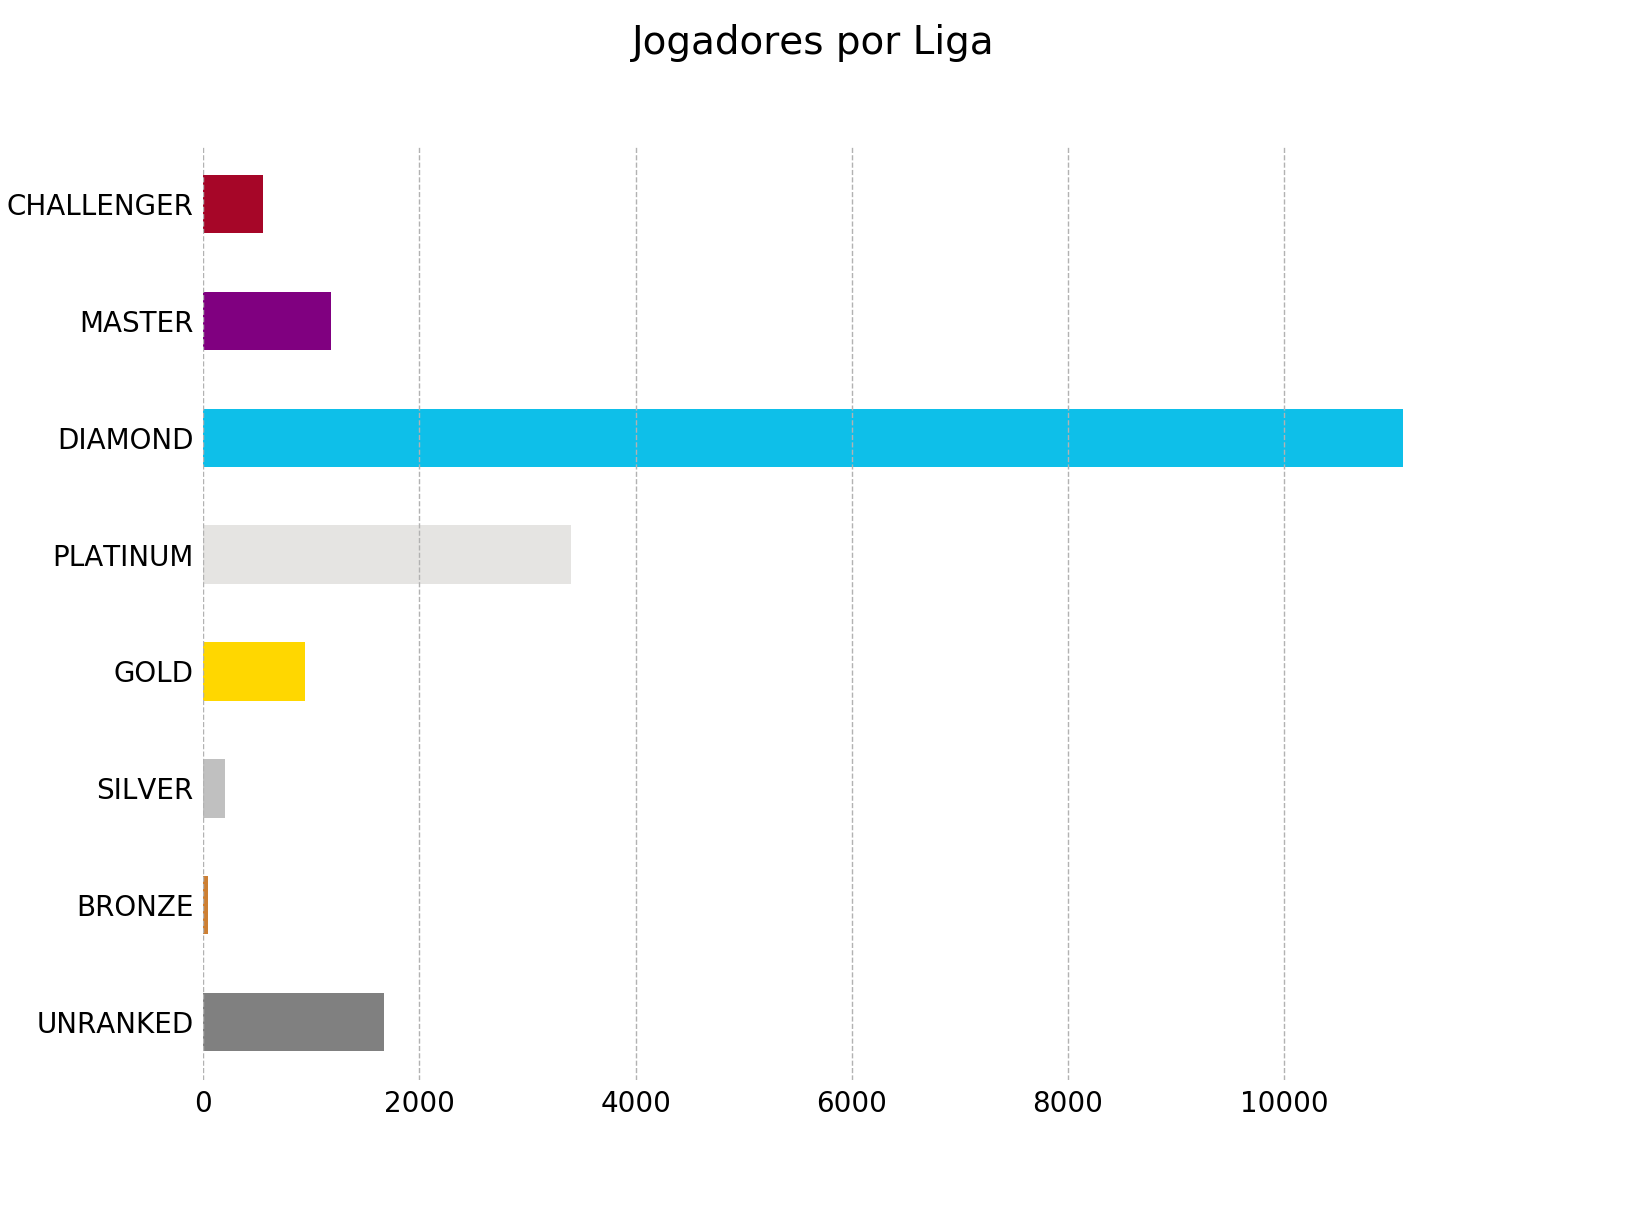
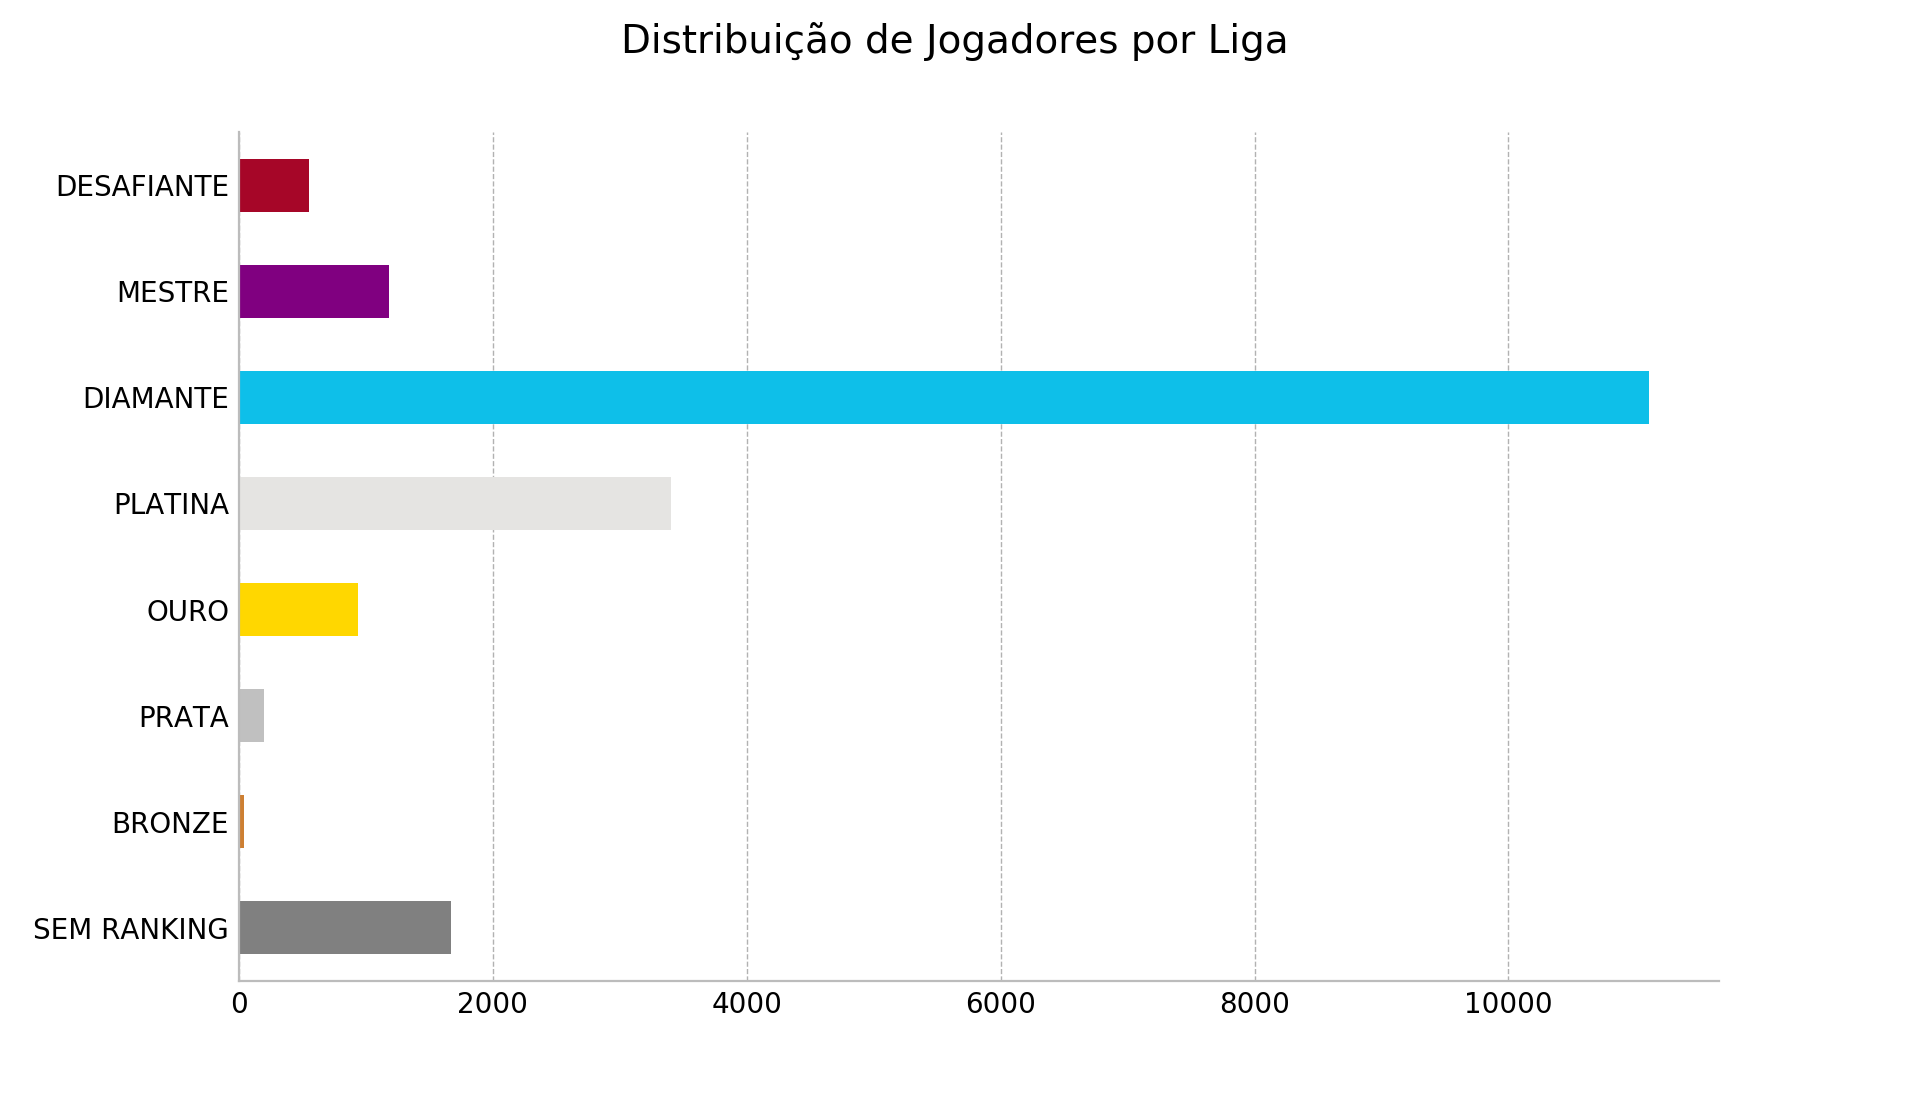
Add feature models that account for history of players
- Those models take a very long time to build and are inviable

diff --git a/extractor.py b/extractor.py
@@ -252,6 +252,136 @@ def champion_masteries_summoner(match, cursor):
     return champion_masteries
 
 
+def summoner_wins_and_rate_team(match, cursor):
+    get_outcomes = ("SELECT T.winner, count(*) "
+                    "FROM MatchParticipant P, MatchPlayer PL, MatchTeam T "
+                    "WHERE PL.summonerId = %s AND P._match_id <> %s "
+                    "AND P._id = PL._participant_id AND P._match_id = T._match_id "
+                    "AND P.teamId = T.teamId "
+                    "GROUP BY T.winner "
+                    "ORDER BY T.winner")
+
+    blue_team = match[:5]
+    red_team = match[5:10]
+
+    blue_total = np.zeros(1)
+    red_total = np.zeros(1)
+    blue_wins = np.zeros(1)
+    red_wins = np.zeros(1)
+    blue_rate = np.zeros(1)
+    red_rate = np.zeros(1)
+
+    for _, player in blue_team.iterrows():
+        losses = 0
+        wins = 0
+        cursor.execute(get_outcomes, (player["summonerId"], player["matchId"]))
+        outcomes = list(cursor)
+        if not outcomes:
+            continue
+        elif len(outcomes) == 2:
+            losses = outcomes[0][1]
+            wins = outcomes[1][1]
+        else:
+            if outcomes[0][0] == 0:
+                losses = outcomes[0][1]
+            else:
+                wins = outcomes[0][1]
+        blue_total += losses + wins
+        blue_wins += wins
+
+    blue_rate = blue_wins / blue_total
+
+    for _, player in red_team.iterrows():
+        losses = 0
+        wins = 0
+        cursor.execute(get_outcomes, (player["summonerId"], player["matchId"]))
+        outcomes = list(cursor)
+        if not outcomes:
+            continue
+        elif len(outcomes) == 2:
+            losses = outcomes[0][1]
+            wins = outcomes[1][1]
+        else:
+            if outcomes[0][0] == 0:
+                losses = outcomes[0][1]
+            else:
+                wins = outcomes[0][1]
+        red_total += losses + wins
+        red_wins += wins
+
+    red_rate = red_wins / red_total
+
+    result = np.concatenate((blue_rate, blue_wins, red_rate, red_wins))
+    return result
+    
+
+def champion_wins_and_rate_team(match, cursor):
+    get_outcomes = ("SELECT T.winner, count(*) "
+                    "FROM MatchParticipant P, MatchPlayer PL, MatchTeam T "
+                    "WHERE PL.summonerId = %s AND P._match_id <> %s "
+                    "AND P.championId = %s "
+                    "AND P._id = PL._participant_id AND P._match_id = T._match_id "
+                    "AND P.teamId = T.teamId "
+                    "GROUP BY T.winner "
+                    "ORDER BY T.winner")
+
+    blue_team = match[:5]
+    red_team = match[5:10]
+
+    blue_total = np.zeros(1)
+    red_total = np.zeros(1)
+    blue_wins = np.zeros(1)
+    red_wins = np.zeros(1)
+    blue_rate = np.zeros(1)
+    red_rate = np.zeros(1)
+
+
+    for _, player in blue_team.iterrows():
+        losses = 0
+        wins = 0
+        cursor.execute(get_outcomes, (player["summonerId"], player["matchId"], 
+                                      player["championId"]))
+        outcomes = list(cursor)
+        if not outcomes:
+            continue
+        elif len(outcomes) == 2:
+            losses = outcomes[0][1]
+            wins = outcomes[1][1]
+        else:
+            if outcomes[0][0] == 0:
+                losses = outcomes[0][1]
+            else:
+                wins = outcomes[0][1]
+        blue_total += losses + wins
+        blue_wins += wins
+
+    blue_rate = blue_wins / blue_total
+
+    for _, player in red_team.iterrows():
+        losses = 0
+        wins = 0
+        cursor.execute(get_outcomes, (player["summonerId"], player["matchId"], 
+                                      player["championId"]))
+        outcomes = list(cursor)
+        if not outcomes:
+            continue
+        elif len(outcomes) == 2:
+            losses = outcomes[0][1]
+            wins = outcomes[1][1]
+        else:
+            if outcomes[0][0] == 0:
+                losses = outcomes[0][1]
+            else:
+                wins = outcomes[0][1]
+        red_total += losses + wins
+        red_wins += wins
+
+    red_rate = red_wins / red_total
+
+    result = np.concatenate((blue_rate, blue_wins, red_rate, red_wins))
+    return result
+
+
 def team_features_zero_to_ten(match, cursor):
     get_features = ("SELECT PL.summonerId, PTD._type, PTD.zeroToTen "
                     "FROM MatchParticipant PA, MatchPlayer PL, "
@@ -730,6 +860,60 @@ def build_model_pre9(db, cursor):
     return dataset
 
 
+def build_model_pre10(db, cursor):
+    df = pd.read_sql("SELECT D.matchId, PL.summonerId, P.championId, P.teamId,"
+                     " T.winner "
+                     "FROM MatchParticipant P, MatchDetail D, MatchTeam T, "
+                     "MatchPlayer PL "
+                     "WHERE P._match_id = D.matchId AND D.mapId = 11 "
+                     "AND D.matchId = T._match_id AND P.teamId = T.teamId "
+                     "AND PL._participant_id = P._id "
+                     "ORDER BY D.matchId, P.teamId ", db)
+
+    dataset = np.zeros((df.shape[0] / 10, 278))
+    bar = tqdm(total=df.shape[0] / 10)
+    for i, player in enumerate(xrange(0, df.shape[0] - 10, 10)):
+        bar.update(1)
+        match = df[player:player + 10]
+
+        champions = onehot_champions(match, db)
+        history = summoner_wins_and_rate_team(match, cursor)
+        history_wins_diff = history[0] - history[2]
+        history_wins_diff = history_wins_diff[np.newaxis]
+        winner = np.array(df["winner"].iloc[player])[np.newaxis]
+        dataset[i] = np.concatenate((champions, history, history_wins_diff, 
+                                     winner))
+
+    return dataset
+
+
+def build_model_pre11(db, cursor):
+    df = pd.read_sql("SELECT D.matchId, PL.summonerId, P.championId, P.teamId,"
+                     " T.winner "
+                     "FROM MatchParticipant P, MatchDetail D, MatchTeam T, "
+                     "MatchPlayer PL "
+                     "WHERE P._match_id = D.matchId AND D.mapId = 11 "
+                     "AND D.matchId = T._match_id AND P.teamId = T.teamId "
+                     "AND PL._participant_id = P._id "
+                     "ORDER BY D.matchId, P.teamId ", db)
+
+    dataset = np.zeros((df.shape[0] / 10, 278))
+    bar = tqdm(total=df.shape[0] / 10)
+    for i, player in enumerate(xrange(0, df.shape[0] - 10, 10)):
+        bar.update(1)
+        match = df[player:player + 10]
+
+        champions = onehot_champions(match, db)
+        history = champion_wins_and_rate_team(match, cursor)
+        history_wins_diff = history[0] - history[2]
+        history_wins_diff = history_wins_diff[np.newaxis]
+        winner = np.array(df["winner"].iloc[player])[np.newaxis]
+        dataset[i] = np.concatenate((champions, history, history_wins_diff, 
+                                     winner))
+
+    return dataset
+
+
 def build_model_pre_in1(db, cursor):
     df = pd.read_sql("SELECT D.matchId, PL.summonerId, P.championId, P.teamId,"
                      " T.winner "
@@ -882,6 +1066,8 @@ def main(args):
                       "pre7": build_model_pre7,
                       "pre8": build_model_pre8,
                       "pre9": build_model_pre9,
+                      "pre10": build_model_pre10,
+                      "pre11": build_model_pre11,
                       "prein1": build_model_pre_in1,
                       "prein1all": build_model_pre_in1_all,
                       "feat_test": feature_testing}

diff --git a/plots/plot_playersperleague.py b/plots/plot_playersperleague.py
@@ -1,24 +1,30 @@
+#!/usr/bin/env python
+# -*- coding: utf-8 -*-
+
 import numpy as np
 import pandas as pd
+import matplotlib
 import matplotlib.pyplot as plt
-from matplotlib import rcParams
+import sys
+reload(sys)
+sys.setdefaultencoding("latin-1")
 
-rcParams['font.family'] = "DejaVu Sans"
+matplotlib.rc('font', family='DejaVu Sans')
 plt.style.use("bmh")
 
 ax = plt.subplot()
 
 df = pd.read_csv("player_leagues.csv", names=["League", "Players"])
-
-order = ["UNRANKED", "BRONZE", "SILVER", "GOLD", "PLATINUM", "DIAMOND", "MASTER", "CHALLENGER"]
+print(df)
+order = ["SEM RANKING", "BRONZE", "PRATA", "OURO", "PLATINA", "DIAMANTE", "MESTRE", "DESAFIANTE"]
 mapping = {league: i for i, league in enumerate(order)}
 key = df["League"].map(mapping)
 df = df.iloc[key.argsort()]
+print(df)
 
 ax.spines['top'].set_visible(False)
 ax.spines['right'].set_visible(False)
-ax.spines['bottom'].set_visible(False)
-ax.spines['left'].set_visible(False)
+ax.set_axisbelow(True)
 
 df.Players.plot(ax=ax, kind='barh', color=["#808080", "#CD7F32", "#C0C0C0", "#FFD700", "#E5E4E2", "#0EBFE9", "#800080", "#A60628"], legend=False, use_index=False)
 
@@ -26,5 +32,5 @@ ax.yaxis.set_ticklabels(df.League)
 ax.tick_params(axis=u'both', which=u'both',length=0)
 ax.set_facecolor("white")
 ax.grid(axis="y")
-plt.suptitle("Jogadores por Liga", fontsize=14)
+plt.suptitle(u"Distribuição de Jogadores por Tier", fontsize=14)
 plt.show()

diff --git a/cv_classifier.py b/cv_classifier.py
@@ -23,8 +23,8 @@ X = dataset[:,0:input_size]
 y = dataset[:,input_size]
 
 # fit model no training data
-model = xgboost.XGBClassifier(n_estimators=100, learning_rate=0.1, max_depth=2)
-#model = RandomForestClassifier(n_estimators=100)
+#model = xgboost.XGBClassifier(n_estimators=100, learning_rate=0.1, max_depth=2)
+model = RandomForestClassifier(n_estimators=100, max_depth=2)
 
 kfold = KFold(n_splits=5, random_state=7)
 results = cross_val_score(model, X, y, cv=kfold)
